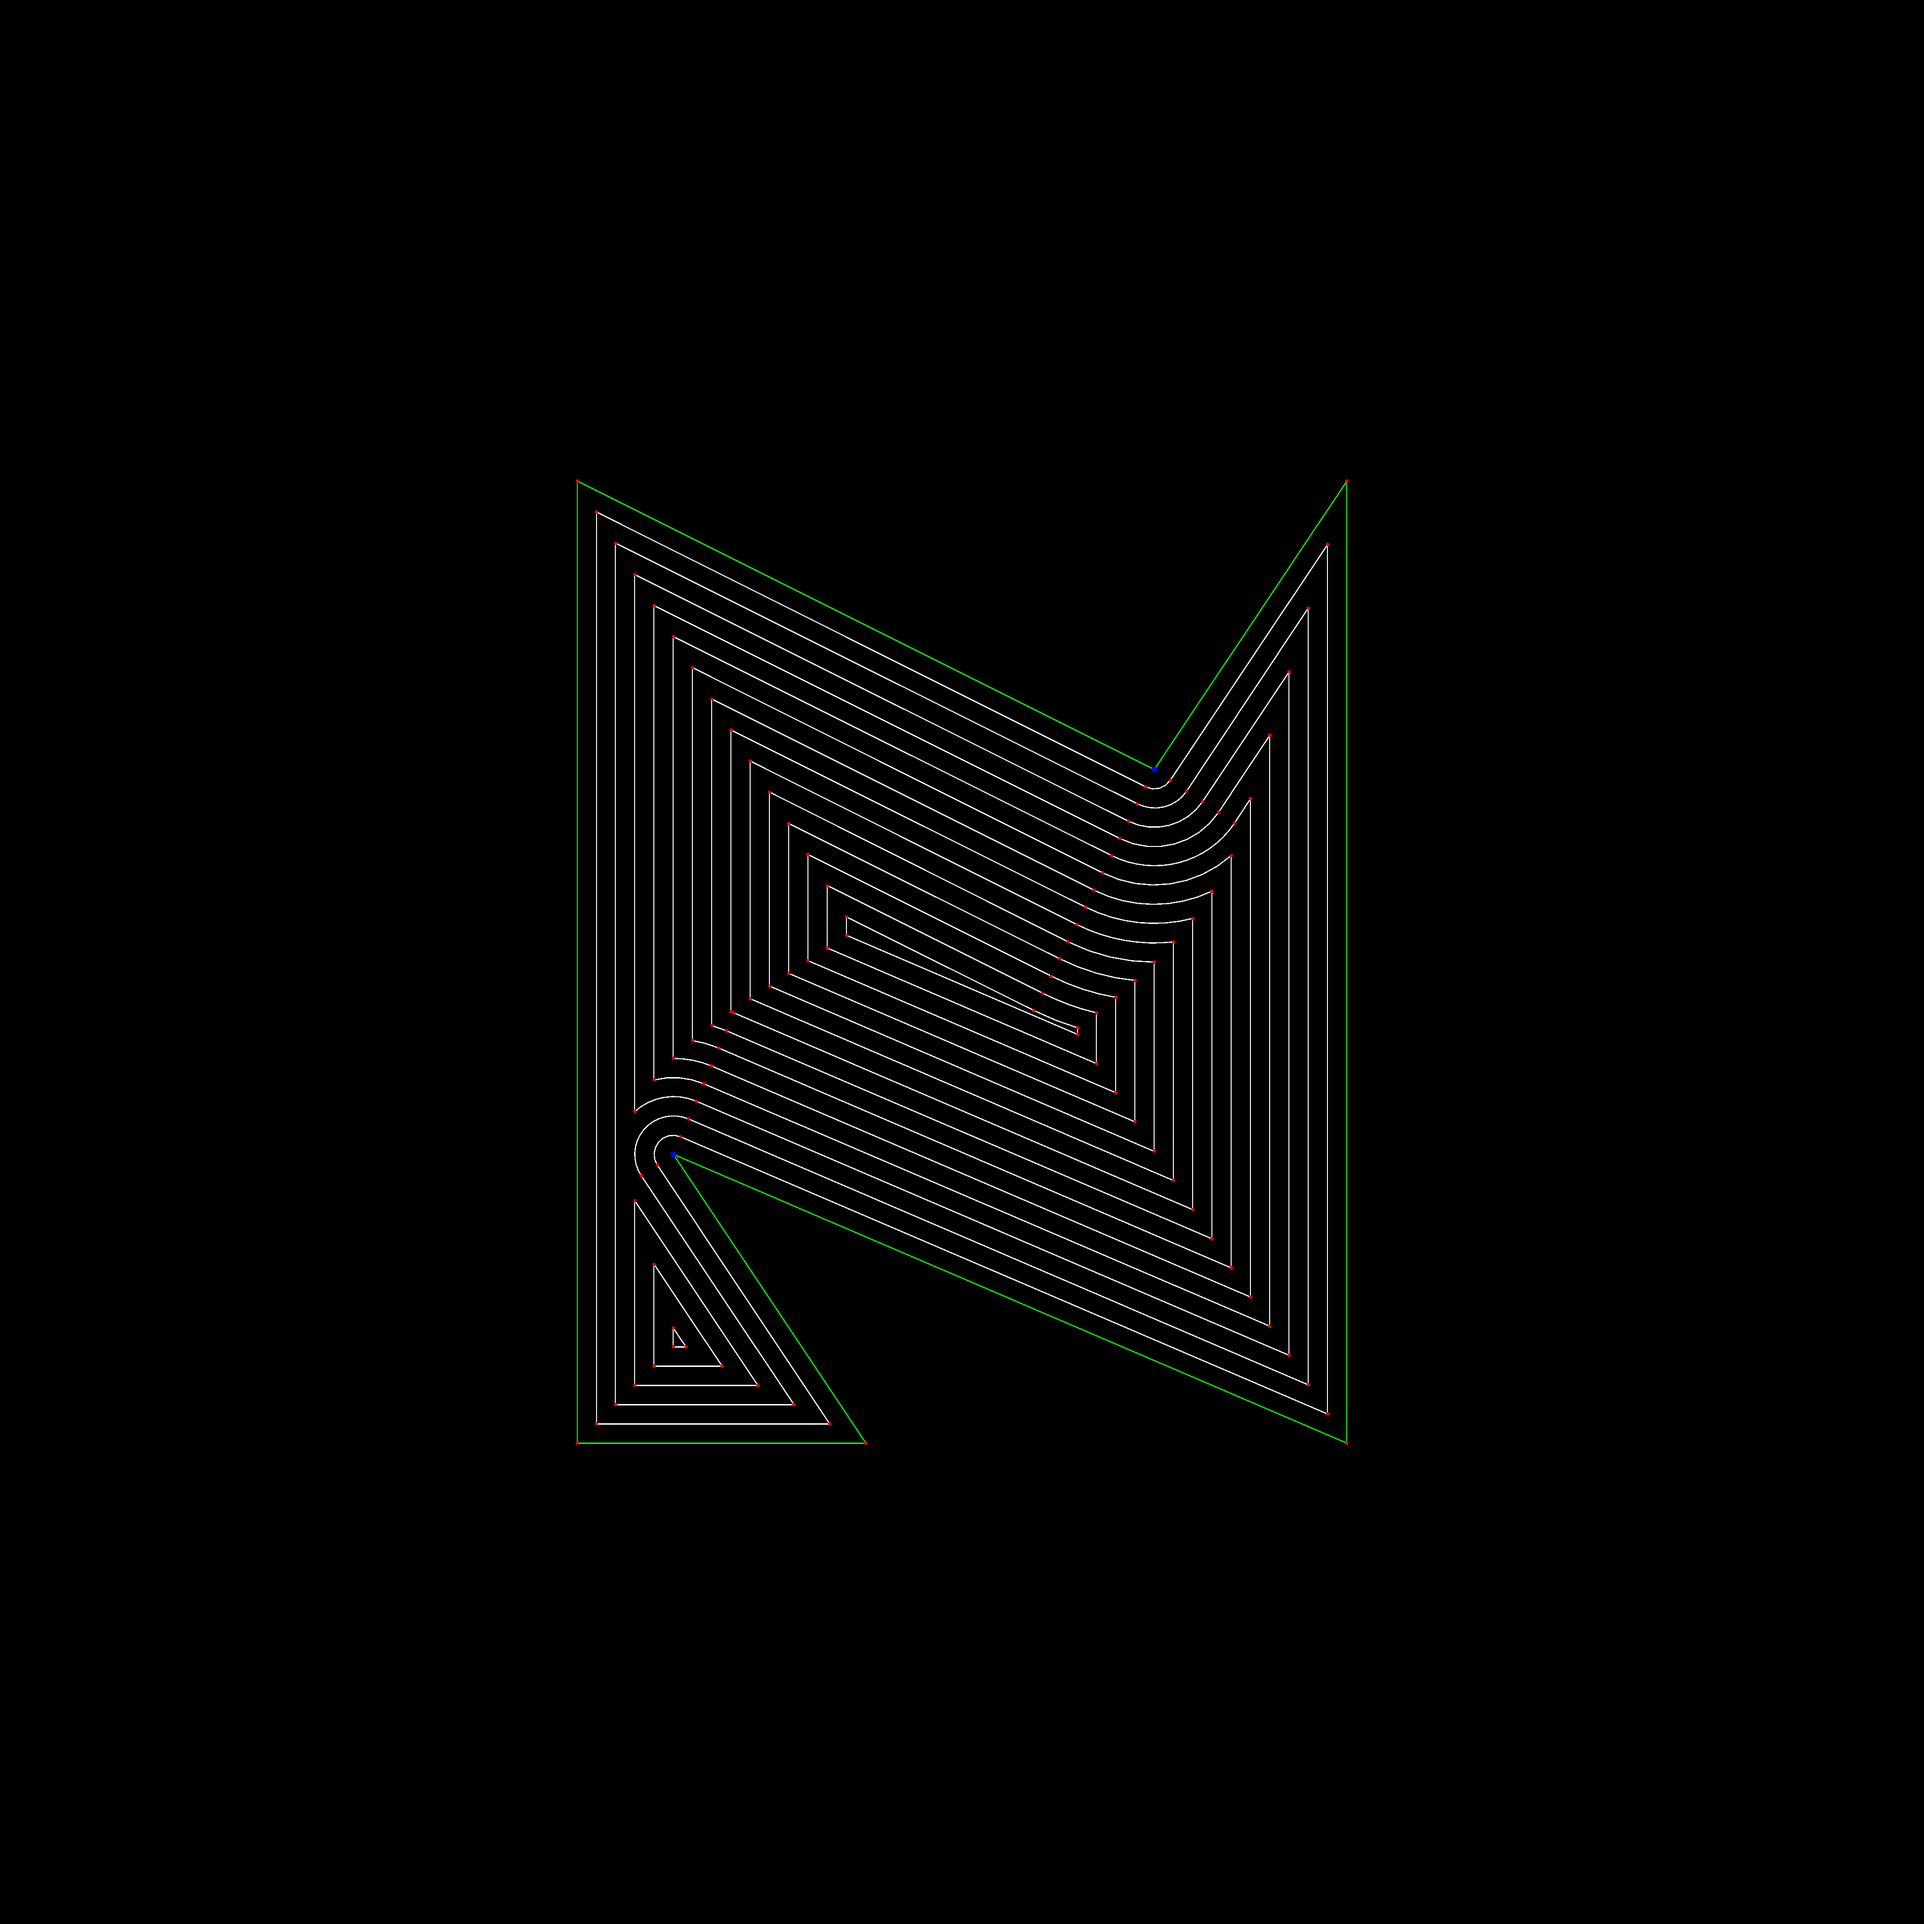
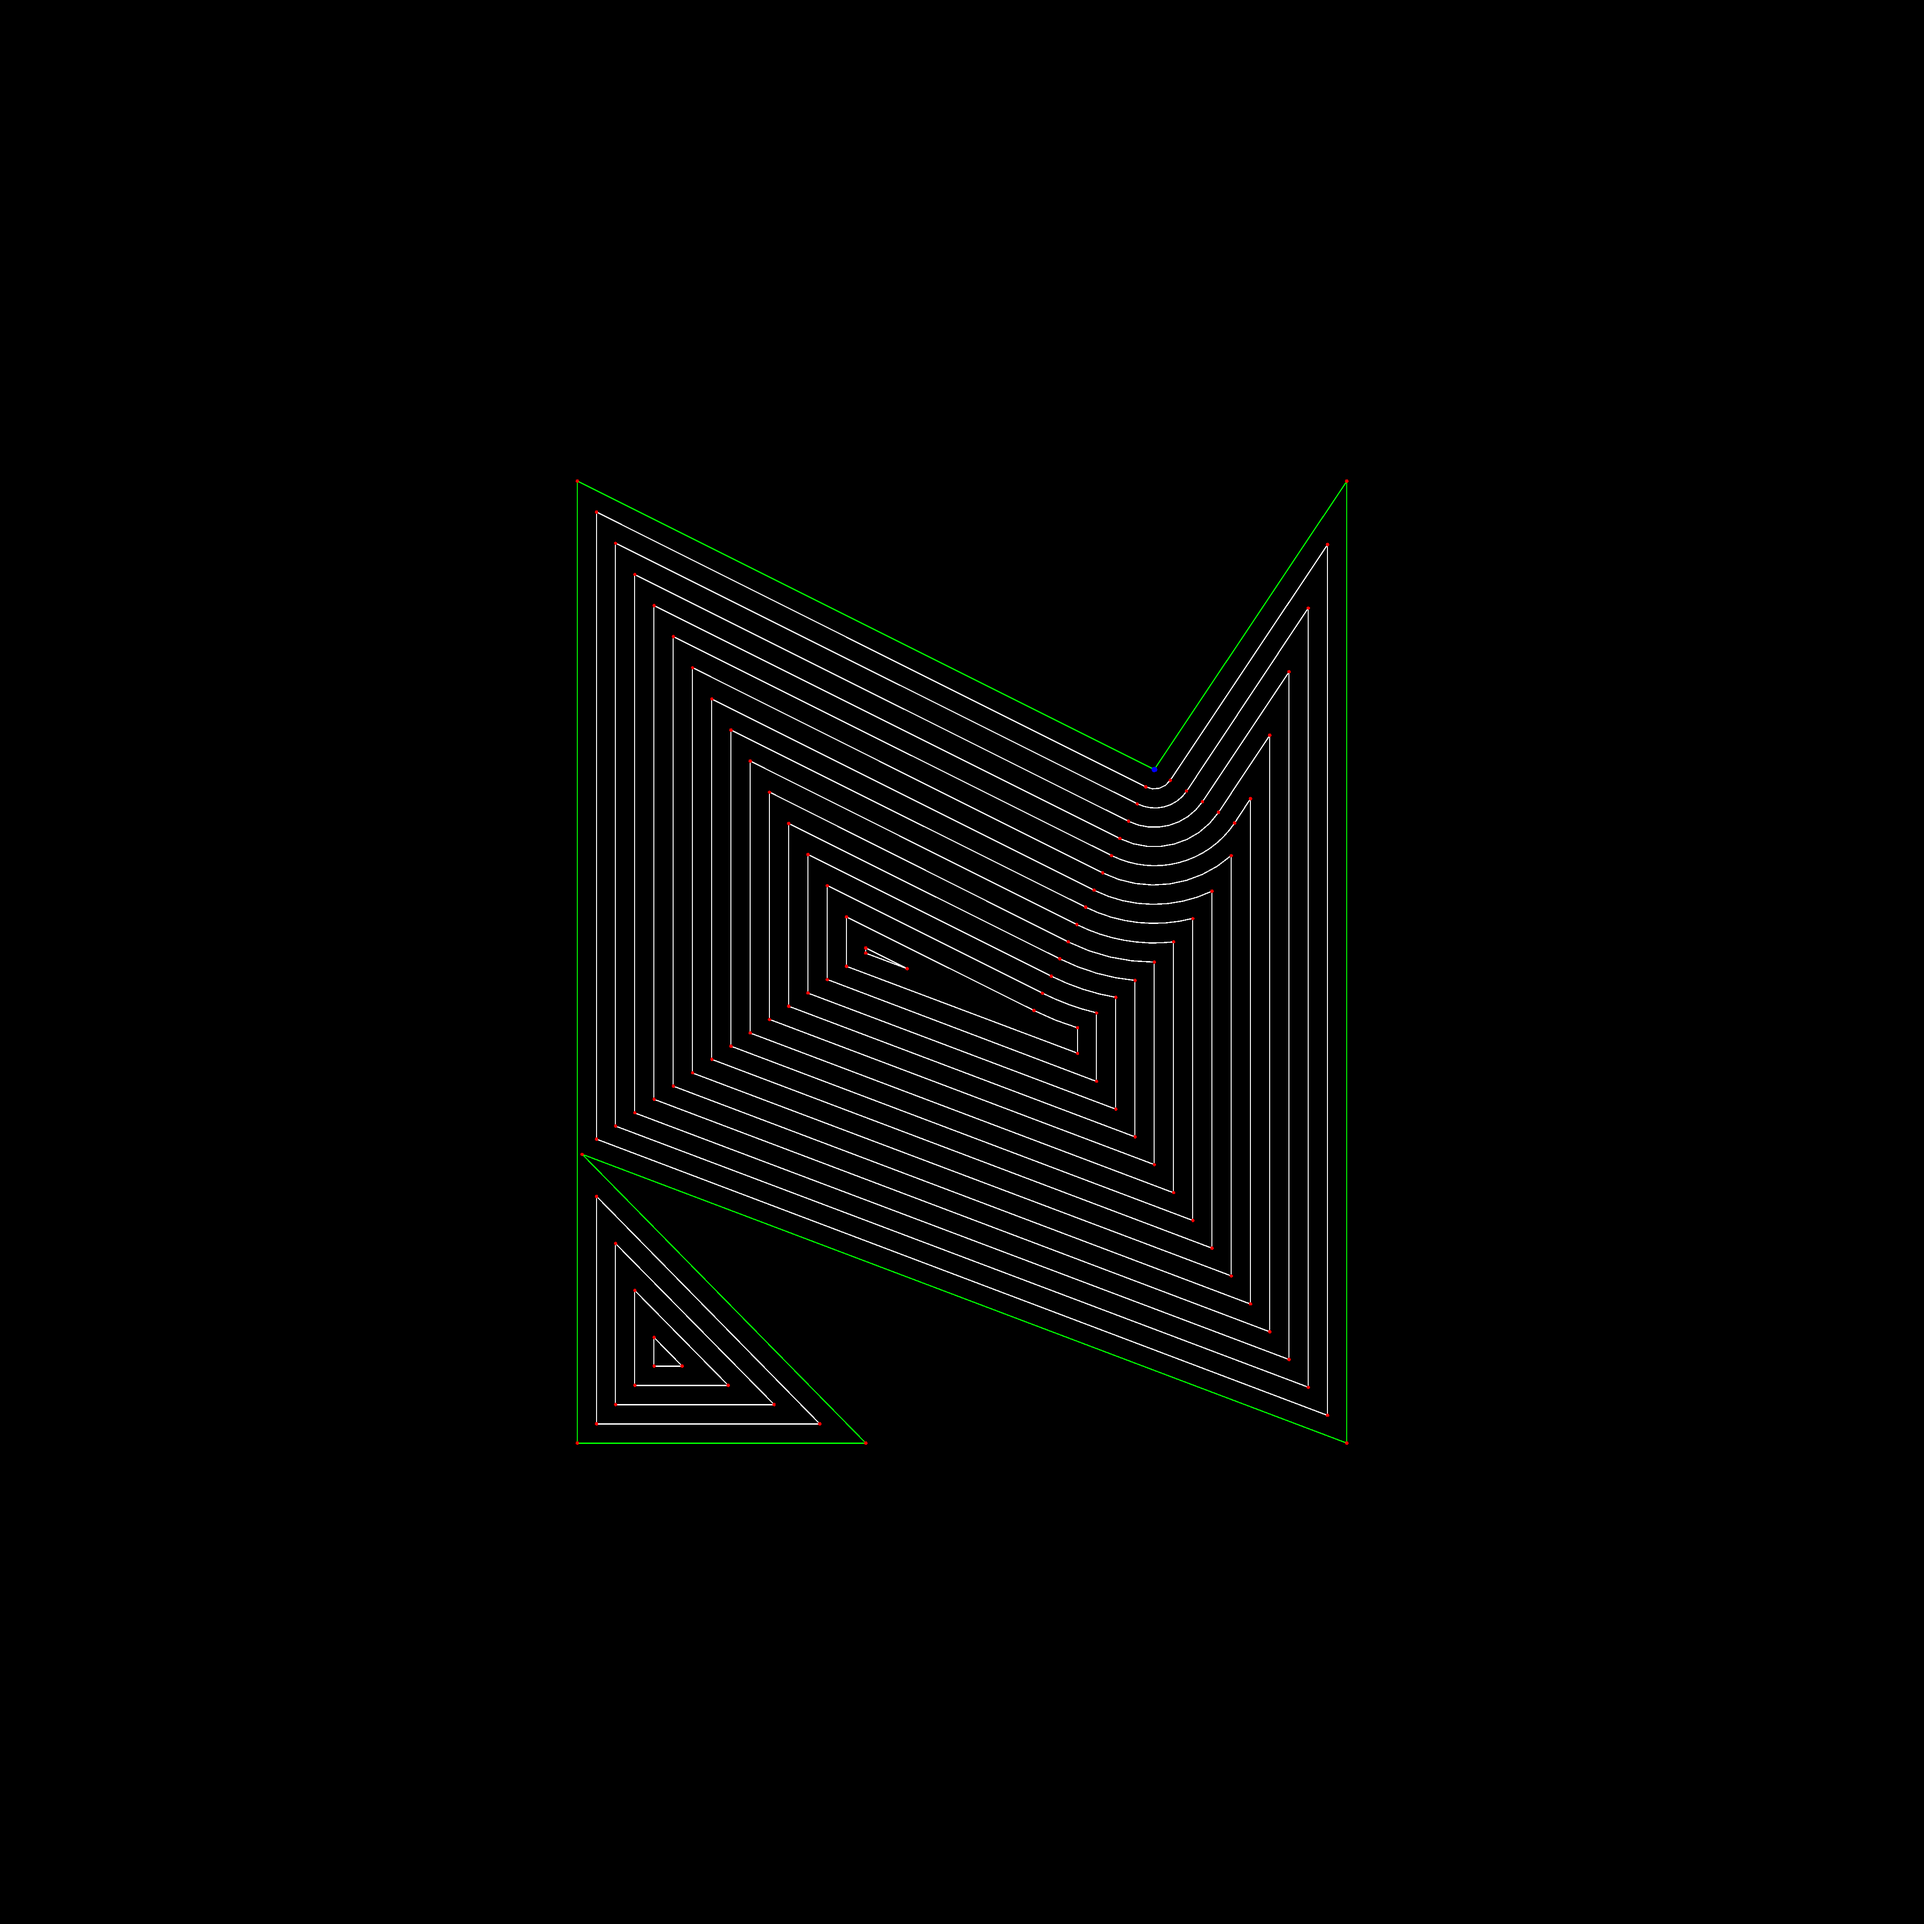
hole fix

diff --git a/src/test/kotlin/OffsetTest.kt b/src/test/kotlin/OffsetTest.kt
@@ -76,7 +76,7 @@ class OffsetTest {
         val bottomLeft = Vertex(Vec2(-0.8, -1.0))
         val extraLeft = Vertex(Vec2(-0.2, -1.0))
         val topMid = Vertex(Vec2(0.4, 0.4))
-        val bottomMid = Vertex(Vec2(-0.6, -0.4))
+        val bottomMid = Vertex(Vec2(-0.79, -0.4))
         val bottomRight = Vertex(Vec2(0.8, -1.0))
         val topRight = Vertex(Vec2(0.8, 1.0))
 
@@ -92,6 +92,37 @@ class OffsetTest {
 
         for( i in 1 until 25 ){
             val offset = -i / 25.0
+            val result = offsetFace(sketchFace, offset)
+            printer.add(result, Color.WHITE)
+        }
+
+        printer.finish()
+    }
+
+    @Test
+    fun outInside(){
+        val a = Vertex(Vec2(0.0, 0.0))
+        val b = Vertex(Vec2(1.0, 0.0))
+        val c = Vertex(Vec2(1.0, 0.8))
+        val d = Vertex(Vec2(0.9, 0.1))
+        val e = Vertex(Vec2(0.1, 0.1))
+        val f = Vertex(Vec2(0.1, 0.9))
+        val g = Vertex(Vec2(0.8, 1.0))
+        val h = Vertex(Vec2(0.0, 1.0))
+
+
+
+        val loop = Loop.wireCircular(a,b,c,d,e,f,g,h)
+        val sketchFace = SketchFace(listOf(FaceBound(loop, FaceBoundKind.OuterBound)))
+
+
+        val printer = DebugPrinter(4096)
+        val rawEdges = loop.map { it.edge.edge }
+        printer.add(rawEdges, Color.GREEN)
+        //printer.add(testFaces)
+
+        for( i in 1 until 20 ){
+            val offset = i / 40.0
             val result = offsetFace(sketchFace, offset)
             printer.add(result, Color.WHITE)
         }

diff --git a/src/main/kotlin/com/codecad/core/sketch/FaceOffset.kt b/src/main/kotlin/com/codecad/core/sketch/FaceOffset.kt
@@ -14,7 +14,7 @@ fun offsetFace(sourceFace : SketchFace, offset: Double) : SketchFace{
     val loops = connectVerticesMirrored(cutEdges)
     val offsetFace = generateFaces(loops)
     val tree = nestHoles(offsetFace.bounds)
-    return SketchFace(tree.children.map { it.bound })
+    return SketchFace((tree.children + tree.children.flatMap { it.children }).map { it.bound })
 }
 
 
